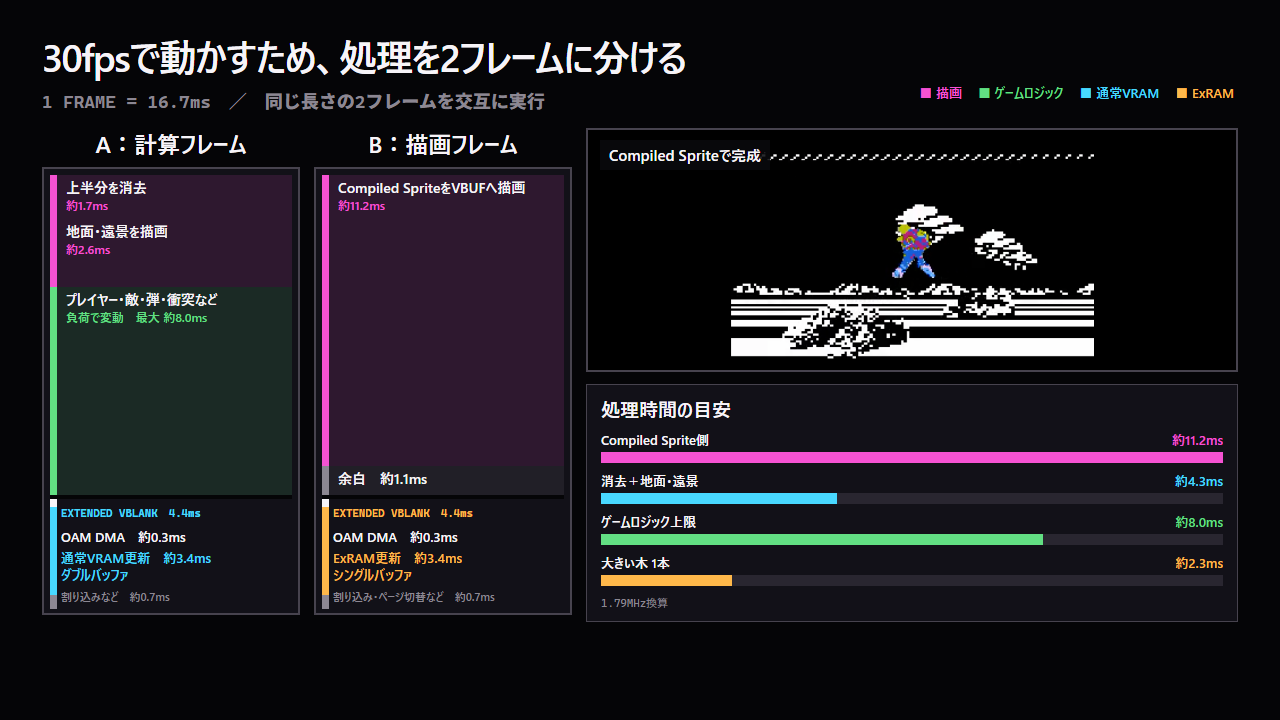
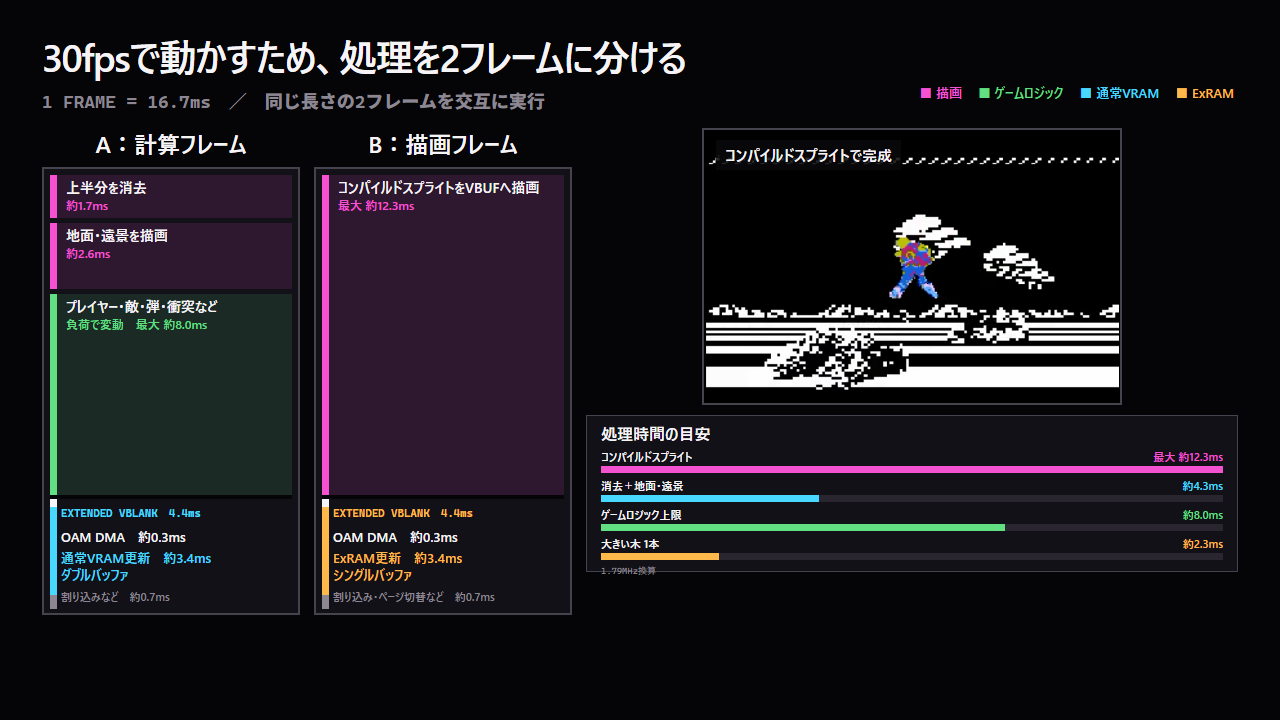
codex: フレーム図の画面比率と描画段階を修正

diff --git a/GPT/video/explainer_prototype/src/ExplainerPrototype.tsx b/GPT/video/explainer_prototype/src/ExplainerPrototype.tsx
@@ -1210,14 +1210,13 @@ const FrameTimelineScene: React.FC = () => {
           {isA ? 'A：計算フレーム' : 'B：描画フレーム'}
         </div>
         <div style={{height: 448, border: '2px solid #47434e', padding: 6, boxSizing: 'border-box', background: C.panel, display: 'flex', flexDirection: 'column'}}>
-          <div style={{height: 320, display: 'flex', flexDirection: 'column'}}>
+          <div style={{height: 320, display: 'flex', flexDirection: 'column', gap: isA ? 5 : 0}}>
             {isA ? <>
-              <Block label="上半分を消去" sub="約1.7ms" color={cpu} height={44} at={45} />
-              <Block label="地面・遠景を描画" sub="約2.6ms" color={cpu} height={68} at={87} />
-              <Block label="プレイヤー・敵・弾・衝突など" sub="負荷で変動　最大 約8.0ms" color={logic} height={208} at={129} />
+              <Block label="上半分を消去" sub="約1.7ms" color={cpu} height={43} at={45} />
+              <Block label="地面・遠景を描画" sub="約2.6ms" color={cpu} height={66} at={87} />
+              <Block label="プレイヤー・敵・弾・衝突など" sub="負荷で変動　最大 約8.0ms" color={logic} height={201} at={129} />
             </> : <>
-              <Block label="Compiled SpriteをVBUFへ描画" sub="約11.2ms" color={cpu} height={291} at={175} />
-              <Block label="余白　約1.1ms" color={C.dim} height={29} at={205} />
+              <Block label="コンパイルドスプライトをVBUFへ描画" sub="最大 約12.3ms" color={cpu} height={320} at={175} />
             </>}
           </div>
           <div style={{height: 114, position: 'relative', borderTop: `4px solid ${C.bg}`, boxSizing: 'border-box', opacity: reveal(isA ? 190 : 240)}}>
@@ -1234,9 +1233,9 @@ const FrameTimelineScene: React.FC = () => {
     );
   };
   const chartOpacity = reveal(390);
-  const previewStage = frame < 87 ? 0 : frame < 129 ? 1 : frame < 210 ? 2 : 3;
-  const stageLabels = ['消去後：真っ黒', '地面・遠景を描画', 'ゲームロジックを反映', 'Compiled Spriteで完成'];
-  const previewImages = ['', 'frame_background.png', 'frame_background_player.png', 'frame_background_player_bg.png'];
+  const previewStage = frame < 45 ? 0 : frame < 87 ? 1 : frame < 129 ? 2 : frame < 210 ? 3 : 4;
+  const stageLabels = ['処理前：完成した画面', '上半分を消去', '地面・遠景を描画', 'ゲームロジックを反映', 'コンパイルドスプライトで完成'];
+  const previewImages = ['frame_background_player_bg.png', 'frame_background_player_bg.png', 'frame_background.png', 'frame_background_player.png', 'frame_background_player_bg.png'];
   return (
     <AbsoluteFill style={{opacity: fade(frame, 600), backgroundColor: C.bg, padding: '34px 42px 0', boxSizing: 'border-box'}}>
       <Title size={38}>30fpsで動かすため、処理を2フレームに分ける</Title>
@@ -1245,26 +1244,27 @@ const FrameTimelineScene: React.FC = () => {
         <Lane kind="A" />
         <Lane kind="B" />
         <div style={{flex: 1}}>
-          <div style={{height: 244, position: 'relative', overflow: 'hidden', background: '#000', border: '2px solid #47434e'}}>
-            {previewStage > 0 ? <Img src={staticFile(previewImages[previewStage])} style={{position: 'absolute', inset: 0, width: '100%', height: '100%', objectFit: 'contain', imageRendering: 'pixelated'}} /> : null}
+          <div style={{width: 420, height: 277, margin: '0 auto', position: 'relative', overflow: 'hidden', background: '#000', border: '2px solid #47434e'}}>
+            <Img src={staticFile(previewImages[previewStage])} style={{position: 'absolute', inset: 0, width: '100%', height: '100%', objectFit: 'contain', imageRendering: 'pixelated'}} />
+            {previewStage === 1 ? <div style={{position: 'absolute', left: 0, right: 0, top: 0, height: '59%', background: '#101014'}} /> : null}
             <div style={{position: 'absolute', left: 12, top: 10, padding: '5px 9px', background: '#09090ddd', fontFamily: FONT, color: C.white, fontSize: 15, fontWeight: 900}}>{stageLabels[previewStage]}</div>
           </div>
-          <div style={{opacity: chartOpacity, marginTop: 12, padding: '11px 14px', background: C.panel, border: '1px solid #47434e'}}>
-          <div style={{fontFamily: FONT, color: C.white, fontSize: 19, fontWeight: 900}}>処理時間の目安</div>
+          <div style={{opacity: chartOpacity, height: 157, boxSizing: 'border-box', marginTop: 10, padding: '7px 14px', background: C.panel, border: '1px solid #47434e'}}>
+          <div style={{fontFamily: FONT, color: C.white, fontSize: 16, fontWeight: 900}}>処理時間の目安</div>
           {[
-            {label: 'Compiled Sprite側', value: '約11.2ms', width: 100, color: cpu},
-            {label: '消去＋地面・遠景', value: '約4.3ms', width: 38, color: C.cyan},
-            {label: 'ゲームロジック上限', value: '約8.0ms', width: 71, color: logic},
-            {label: '大きい木 1本', value: '約2.3ms', width: 21, color: C.orange},
+            {label: 'コンパイルドスプライト', value: '最大 約12.3ms', width: 100, color: cpu},
+            {label: '消去＋地面・遠景', value: '約4.3ms', width: 35, color: C.cyan},
+            {label: 'ゲームロジック上限', value: '約8.0ms', width: 65, color: logic},
+            {label: '大きい木 1本', value: '約2.3ms', width: 19, color: C.orange},
           ].map((bar) => (
-            <div key={bar.label} style={{marginTop: 9}}>
-              <div style={{display: 'flex', justifyContent: 'space-between', gap: 8, fontFamily: FONT, fontSize: 13, fontWeight: 900}}>
+            <div key={bar.label} style={{marginTop: 5}}>
+              <div style={{display: 'flex', justifyContent: 'space-between', gap: 8, fontFamily: FONT, fontSize: 11, fontWeight: 900}}>
                 <span style={{color: C.white}}>{bar.label}</span><span style={{color: bar.color}}>{bar.value}</span>
               </div>
-              <div style={{height: 11, background: '#292630', marginTop: 4}}><div style={{height: '100%', width: `${bar.width}%`, background: bar.color}} /></div>
+              <div style={{height: 7, background: '#292630', marginTop: 2}}><div style={{height: '100%', width: `${bar.width}%`, background: bar.color}} /></div>
             </div>
           ))}
-          <div style={{fontFamily: MONO, color: C.dim, fontSize: 11, marginTop: 8}}>1.79MHz換算</div>
+          <div style={{fontFamily: MONO, color: C.dim, fontSize: 9, marginTop: 4}}>1.79MHz換算</div>
           </div>
         </div>
       </div>
